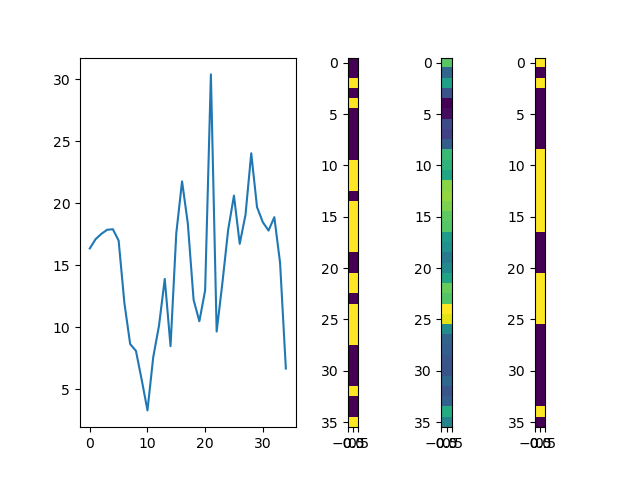
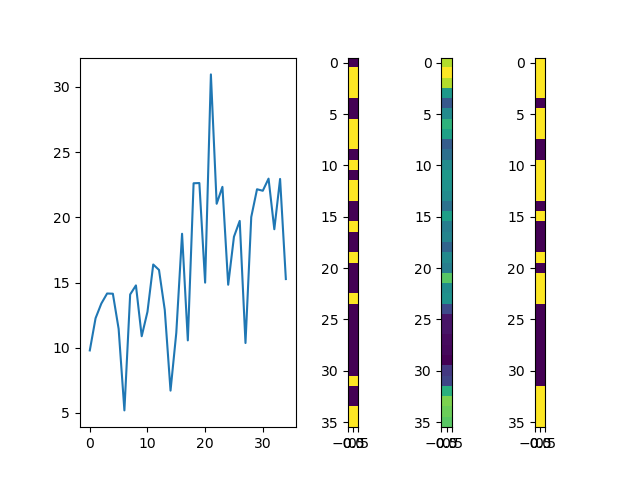
results that i like better!

diff --git a/1d/peaks_to_slot/peaks_to_slots_model.py b/1d/peaks_to_slot/peaks_to_slots_model.py
@@ -67,10 +67,19 @@ class LWAPredictionModel(tf.keras.Model):
 
         # print(prediction)
         bce = tf.keras.losses.BinaryCrossentropy()
-        # ba = tf.keras.losses.BinaryCrossentropy()
+        bce_exp = tf.keras.losses.BinaryCrossentropy()
+        bce_exp2 = tf.keras.losses.BinaryCrossentropy()
 
+        pred_exp = tf.cast(tf.expand_dims(prediction, 2),tf.float32)
+        true_exp = tf.cast(tf.expand_dims(true, 2),tf.float32)
 
-        return bce(true,prediction)
+        pred_pooled = tf.nn.pool(pred_exp,(2,),'AVG',(2,))
+        true_pooled = tf.nn.pool(true_exp,(2,),'AVG',(2,))
+
+        pred_pooled_2 = tf.nn.pool(pred_pooled,(2,),'AVG',(2,))
+        true_pooled_2 = tf.nn.pool(true_pooled,(2,),'AVG',(2,))
+
+        return bce(true,prediction) + bce_exp(true_pooled, pred_pooled) + (0*bce_exp2(true_pooled_2, pred_pooled_2))
 
     def accuracy(self, prediction, true):
         ba = tf.keras.metrics.BinaryAccuracy()
